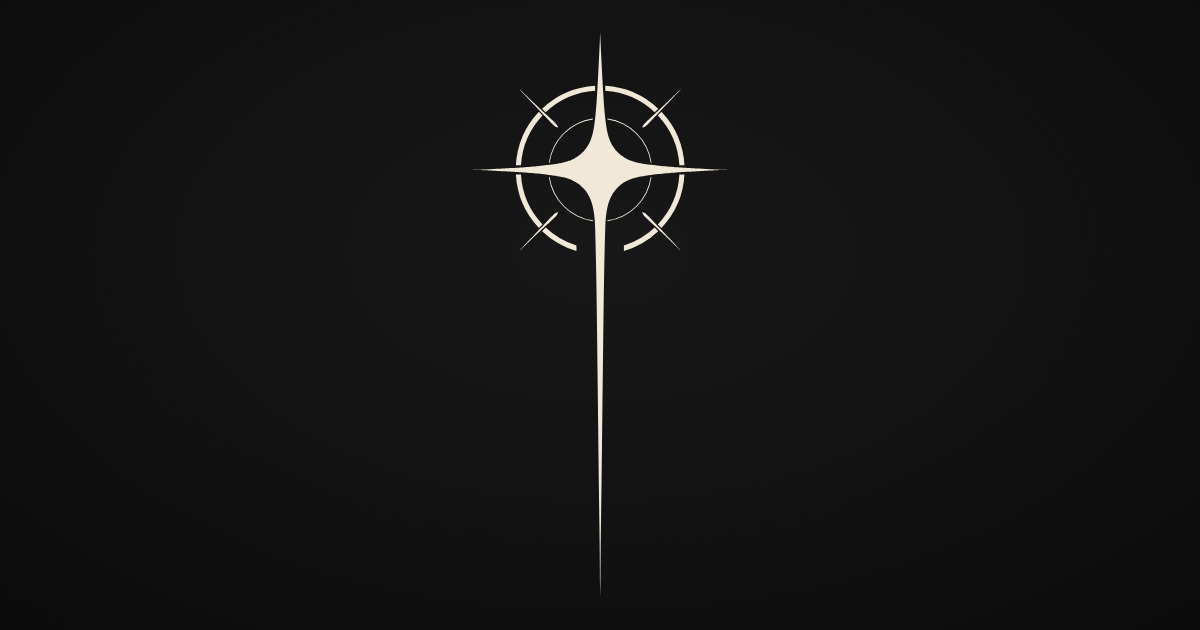
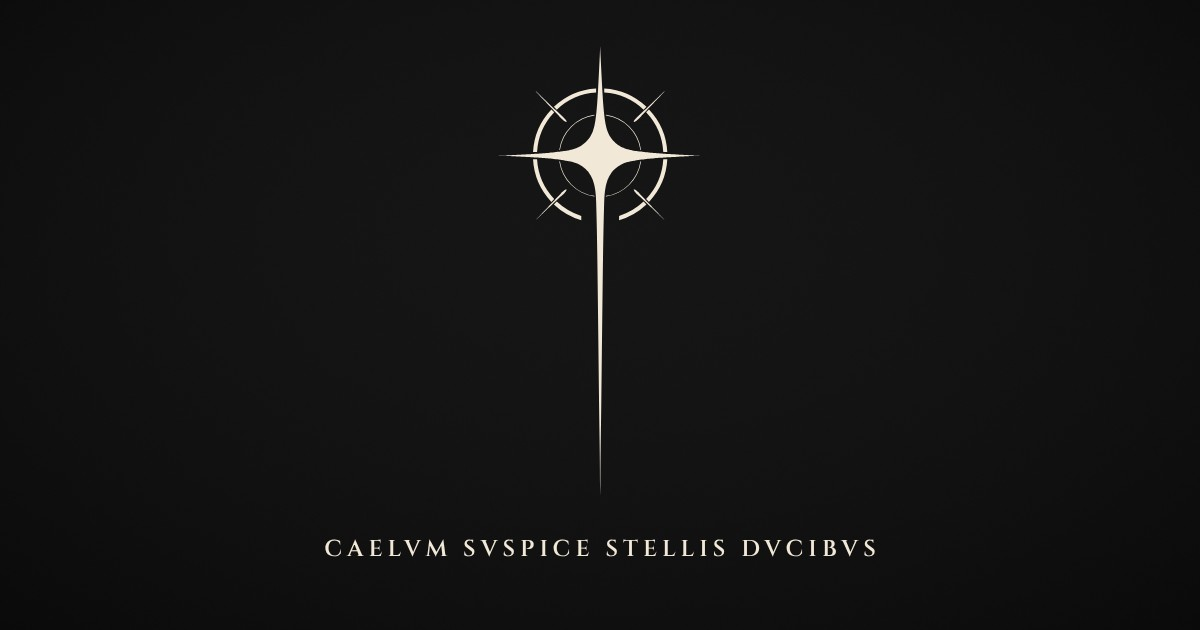
Motto on the link-preview card and in machine-readable files
Caelum suspice, stellis ducibus under the logo on og-card.jpg; added to
llms.txt, llms-full.txt, README, and the card's alt text and caption.

Claude-Session: https://claude.ai/code/session_01VUpUhBhGM9J98nMqEtWN43

Changed region(s): [[0.4008, 0.1206, 0.5858, 0.7841], [0.4008, 0.8444, 0.74, 0.9048], [0.2775, 0.8444, 0.37, 0.8746]]

diff --git a/index.html b/index.html
@@ -20,14 +20,14 @@
   <meta property="og:image" content="https://lastelle.ai/assets/brand/og-card.jpg" />
   <meta property="og:image:width" content="1200" />
   <meta property="og:image:height" content="630" />
-  <meta property="og:image:alt" content="Lastelle AI: Intelligence synthesized by humans. Agentic AI systems and AI-embedded hardware, beside Earth seen from orbit." />
+  <meta property="og:image:alt" content="The Lastelle AI logo above the Latin motto Caelvm svspice stellis dvcibvs: Look to the heavens, with the stars as your guide." />
   <meta name="twitter:card" content="summary_large_image" />
   <meta name="twitter:site" content="@clangnosis" />
   <meta name="twitter:creator" content="@clangnosis" />
   <meta name="twitter:title" content="Lastelle AI | Agentic AI Systems and AI-Embedded Hardware" />
   <meta name="twitter:description" content="Lastelle AI designs and builds agentic AI systems and AI-embedded hardware." />
   <meta name="twitter:image" content="https://lastelle.ai/assets/brand/og-card.jpg" />
-  <meta name="twitter:image:alt" content="Lastelle AI: Intelligence synthesized by humans. Agentic AI systems and AI-embedded hardware." />
+  <meta name="twitter:image:alt" content="The Lastelle AI logo above the Latin motto Caelvm svspice stellis dvcibvs: Look to the heavens, with the stars as your guide." />
   <link rel="icon" href="assets/brand/favicon.svg" type="image/svg+xml" />
   <link rel="icon" href="assets/brand/favicon-48.png" sizes="48x48" type="image/png" />
   <link rel="apple-touch-icon" href="assets/brand/apple-touch-icon.png" />
@@ -171,7 +171,8 @@
       "@id": "https://lastelle.ai/#primaryimage",
       "url": "https://lastelle.ai/assets/brand/og-card.jpg",
       "width": 1200,
-      "height": 630
+      "height": 630,
+      "caption": "The Lastelle AI logo above the Latin motto Caelvm svspice stellis dvcibvs: Look to the heavens, with the stars as your guide."
     },
     {
       "@type": "FAQPage",

diff --git a/README.md b/README.md
@@ -2,6 +2,8 @@
 
 Lastelle AI Corporation is an artisanal AI workshop building agentic AI systems and AI-embedded hardware from human craft and machine intelligence.
 
+Motto: *Caelvm svspice stellis dvcibvs* ("Look to the heavens, with the stars as your guide")
+
 Website: https://lastelle.ai/
 
 ## Work
